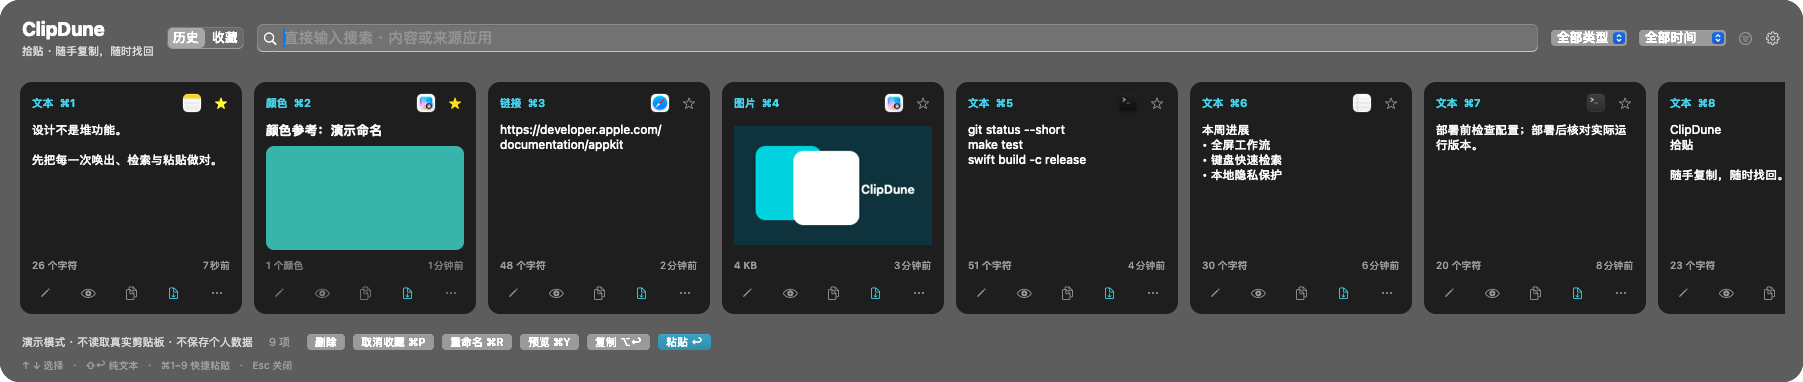
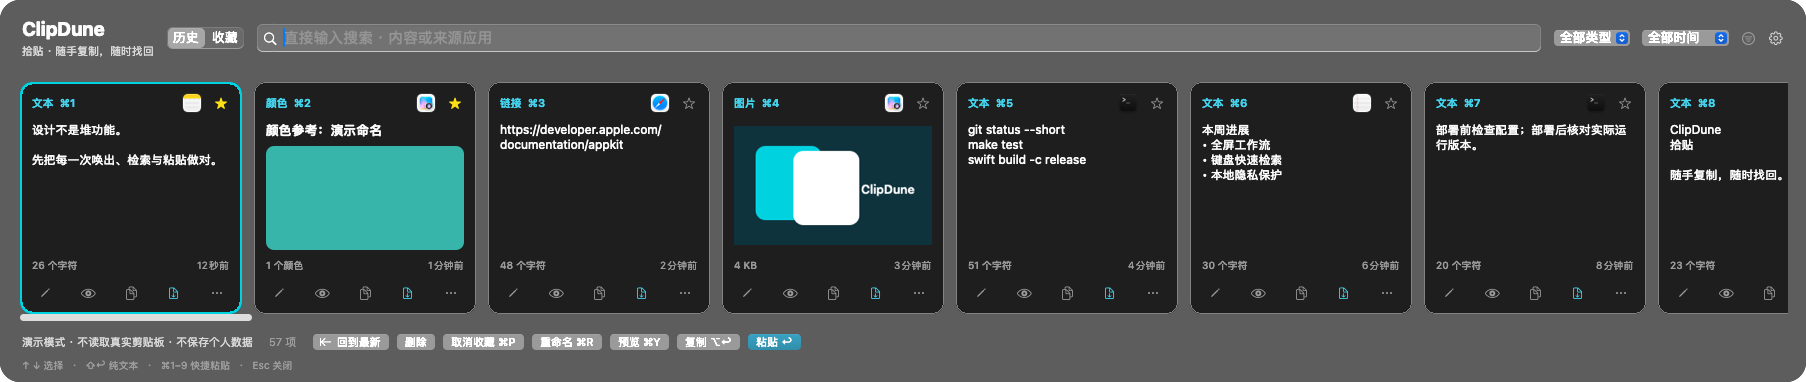
修复面板重开滚动复位并增加回到最新按钮

diff --git a/Sources/ClipDuneApp/ScrollUICheck.swift b/Sources/ClipDuneApp/ScrollUICheck.swift
@@ -1,0 +1,130 @@
+import AppKit
+import ClipDuneMac
+import ClipDuneCore
+
+@MainActor
+enum ScrollUICheck {
+    static func run(panel: ClipboardPanelController, open: () -> Void) async throws -> [String: Bool] {
+        guard let root = panel.panel.contentView,
+              let collection = descendants(root).compactMap({ $0 as? NSCollectionView }).first,
+              let scroll = collection.enclosingScrollView else { return ["scrollFixtureReady": false] }
+        panel.hide()
+        open()
+        try await Task.sleep(for: .milliseconds(150))
+        root.layoutSubtreeIfNeeded()
+        let clip = scroll.contentView
+        let maximumX = max(0, collection.bounds.width - clip.bounds.width)
+        var results = ["scrollFixtureReady": panel.summaries.count >= 40 && maximumX > 500]
+        guard results["scrollFixtureReady"] == true else { return results }
+
+        let index = IndexPath(item: 20, section: 0)
+        collection.selectionIndexPaths = [index]
+        panel.collectionView(collection, didSelectItemsAt: [index])
+        clip.scroll(to: NSPoint(x: maximumX / 2 + 63, y: clip.bounds.minY))
+        scroll.reflectScrolledClipView(clip)
+        results["scrolledAwayBeforeReopen"] = clip.bounds.minX > 100
+        panel.hide()
+        open()
+        results["reopenImmediatelyResetsScroll"] = atStart(scroll)
+        try await Task.sleep(for: .milliseconds(150))
+        results["reopenAfterResultsResetsScroll"] = atStart(scroll)
+        results["reopenSelectsNewest"] = collection.selectionIndexPaths == [IndexPath(item: 0, section: 0)]
+        results["reopenKeepsSearchFocused"] = panel.isSearchFocused
+
+        clip.scroll(to: NSPoint(x: 73, y: clip.bounds.minY))
+        scroll.reflectScrolledClipView(clip)
+        panel.hide()
+        open()
+        try await Task.sleep(for: .milliseconds(150))
+        results["partiallyVisibleFirstCardResetsCompletely"] = atStart(scroll)
+        guard let latest = descendants(root).compactMap({ $0 as? NSButton }).first(where: { $0.identifier?.rawValue == "clipdune.returnToLatest" }) else {
+            results["returnToLatestButtonPresent"] = false
+            return results
+        }
+        results["returnToLatestButtonPresent"] = !latest.isHidden && latest.isEnabled && latest.title == "回到最新"
+        let previousChoose = panel.onChoose
+        var pasteCalled = false
+        panel.onChoose = { _, _, _ in pasteCalled = true }
+        defer { panel.onChoose = previousChoose }
+        collection.selectionIndexPaths = [index]
+        panel.collectionView(collection, didSelectItemsAt: [index])
+        moveAway(scroll, collection: collection)
+        click(latest, in: panel.panel)
+        try await Task.sleep(for: .milliseconds(80))
+        results["latestButtonResetsScrollAndSelection"] = atStart(scroll) && collection.selectionIndexPaths == [IndexPath(item: 0, section: 0)]
+        results["latestButtonKeepsInputFocusWithoutPasting"] = panel.isSearchFocused && !pasteCalled
+        let firstFrame = collection.layoutAttributesForItem(at: IndexPath(item: 0, section: 0))?.frame
+        results["latestCardFullyVisible"] = firstFrame.map { collection.visibleRect.contains($0) } == true
+
+        if let type = descendants(root).compactMap({ $0 as? NSPopUpButton }).first(where: { $0.identifier?.rawValue == "clipdune.filter.type" }),
+           let period = descendants(root).compactMap({ $0 as? NSPopUpButton }).first(where: { $0.identifier?.rawValue == "clipdune.filter.time" }),
+           let favorites = descendants(root).compactMap({ $0 as? NSSegmentedControl }).first {
+            panel.searchField.stringValue = "横向滚动"
+            type.selectItem(withTitle: "文本")
+            period.selectItem(withTitle: "最近 30 天")
+            type.sendAction(type.action, to: type.target)
+            try await Task.sleep(for: .milliseconds(150))
+            let identities = panel.summaries.map(\.id)
+            results["filteredScrollFixtureReady"] = identities.count >= 40
+            moveAway(scroll, collection: collection)
+            click(latest, in: panel.panel)
+            try await Task.sleep(for: .milliseconds(80))
+            results["latestButtonPreservesQueryAndFilters"] = panel.query == "横向滚动" && panel.searchFilter == HistoryFilter(kind: .text, period: .lastThirtyDays) && panel.summaries.map(\.id) == identities && atStart(scroll)
+
+            favorites.selectedSegment = 1
+            favorites.sendAction(favorites.action, to: favorites.target)
+            try await Task.sleep(for: .milliseconds(150))
+            results["emptyResultsDisableLatestButton"] = panel.summaries.isEmpty && !latest.isEnabled && atStart(scroll)
+            panel.searchField.stringValue = ""
+            type.selectItem(at: 0)
+            period.selectItem(at: 0)
+            type.sendAction(type.action, to: type.target)
+            try await Task.sleep(for: .milliseconds(150))
+            click(latest, in: panel.panel)
+            try await Task.sleep(for: .milliseconds(80))
+            results["latestButtonPreservesFavorites"] = panel.pinnedOnly && !panel.summaries.isEmpty && panel.summaries.allSatisfy(\.isPinned) && atStart(scroll)
+
+            panel.hide()
+            open()
+            try await Task.sleep(for: .milliseconds(150))
+            results["reopenClearsFiltersAndReturnsToHistoryStart"] = !panel.pinnedOnly && panel.query.isEmpty && panel.searchFilter == HistoryFilter() && panel.summaries.count >= 40 && atStart(scroll)
+        } else { results["latestButtonPreservesQueryAndFilters"] = false }
+
+        var allCyclesPassed = true
+        for _ in 0..<6 {
+            moveAway(scroll, collection: collection)
+            panel.hide()
+            open()
+            allCyclesPassed = allCyclesPassed && atStart(scroll)
+            try await Task.sleep(for: .milliseconds(80))
+            allCyclesPassed = allCyclesPassed && atStart(scroll) && panel.isSearchFocused
+        }
+        results["repeatedScrolledReopensStayAtStart"] = allCyclesPassed
+        results["latestNavigationNeverPastes"] = !pasteCalled
+        return results
+    }
+
+    private static func atStart(_ scroll: NSScrollView) -> Bool {
+        abs(scroll.contentView.bounds.minX) <= 0.5
+    }
+
+    private static func descendants(_ view: NSView) -> [NSView] { view.subviews + view.subviews.flatMap(descendants) }
+
+    private static func moveAway(_ scroll: NSScrollView, collection: NSCollectionView) {
+        collection.layoutSubtreeIfNeeded()
+        let maximumX = max(0, collection.bounds.width - scroll.contentView.bounds.width)
+        scroll.contentView.scroll(to: NSPoint(x: maximumX / 2, y: scroll.contentView.bounds.minY))
+        scroll.reflectScrolledClipView(scroll.contentView)
+    }
+
+    private static func click(_ button: NSButton, in window: NSWindow) {
+        let point = button.convert(NSPoint(x: button.bounds.midX, y: button.bounds.midY), to: nil)
+        let timestamp = ProcessInfo.processInfo.systemUptime
+        let down = NSEvent.mouseEvent(with: .leftMouseDown, location: point, modifierFlags: [], timestamp: timestamp,
+                                     windowNumber: window.windowNumber, context: nil, eventNumber: 1, clickCount: 1, pressure: 1)!
+        let up = NSEvent.mouseEvent(with: .leftMouseUp, location: point, modifierFlags: [], timestamp: timestamp + 0.01,
+                                   windowNumber: window.windowNumber, context: nil, eventNumber: 1, clickCount: 1, pressure: 0)!
+        NSApp.postEvent(up, atStart: true)
+        window.sendEvent(down)
+    }
+}

diff --git a/Sources/ClipDuneMac/ClipboardPanel.swift b/Sources/ClipDuneMac/ClipboardPanel.swift
@@ -40,6 +40,7 @@ public final class ClipboardPanelController: NSObject, NSWindowDelegate, NSSearc
     private let typeFilter = NSPopUpButton()
     private let timeFilter = NSPopUpButton()
     private let clearFilters = NSButton()
+    private let latestButton = NSButton()
     private var pinButton: NSButton?
     private var sourceIcons: [String: NSImage] = [:]
     private let statusLabel = NSTextField(labelWithString: "仅保存在这台 Mac")
@@ -106,6 +107,8 @@ public final class ClipboardPanelController: NSObject, NSWindowDelegate, NSSearc
         let screen = NSScreen.screens.first(where: { $0.frame.contains(mouse) }) ?? NSScreen.main
         let available = screen?.visibleFrame ?? NSRect(x: 0, y: 0, width: 1_200, height: 800)
         panel.setFrame(Self.frame(on: available), display: true)
+        selectCurrent(scrollIntoView: false)
+        scrollToBeginning()
         panel.orderFrontRegardless()
         panel.makeKey()
         focusSearch()
@@ -146,7 +149,8 @@ public final class ClipboardPanelController: NSObject, NSWindowDelegate, NSSearc
         emptyLabel.stringValue = query.isEmpty && searchFilter == HistoryFilter() ? "你的下一次复制，会出现在这里。\n无需整理，随时找回。" : "没有找到匹配内容\n试试调整关键词、类型或时间筛选。"
         countLabel.stringValue = results.isEmpty ? "" : (results.count == 200 ? "最近 200 项 · 可继续搜索" : "\(results.count) 项")
         buttons.forEach { $0.isEnabled = !results.isEmpty }
-        selectCurrent()
+        selectCurrent(scrollIntoView: !resetSelection)
+        if resetSelection { scrollToBeginning() }
     }
 
     public func setStatus(_ status: String) { statusLabel.stringValue = status }
@@ -380,9 +384,18 @@ public final class ClipboardPanelController: NSObject, NSWindowDelegate, NSSearc
         let delete = NSButton(title: "删除", target: self, action: #selector(deleteSelection))
         let paste = NSButton(title: "粘贴 ↩", target: self, action: #selector(pasteSelection))
         paste.bezelColor = NSColor.systemTeal
-        buttons = [delete, pin, rename, preview, copy, paste]
+        latestButton.title = "回到最新"
+        latestButton.image = NSImage(systemSymbolName: "arrow.left.to.line", accessibilityDescription: "回到最新")
+        latestButton.imagePosition = .imageLeading
+        latestButton.target = self
+        latestButton.action = #selector(returnToLatest)
+        latestButton.identifier = NSUserInterfaceItemIdentifier("clipdune.returnToLatest")
+        latestButton.isEnabled = false
+        latestButton.toolTip = "回到当前结果最左侧并选中最新项，保留关键词与筛选条件"
+        latestButton.setAccessibilityLabel("回到最新")
+        buttons = [latestButton, delete, pin, rename, preview, copy, paste]
         buttons.forEach { $0.bezelStyle = .rounded; $0.controlSize = .small }
-        let actions = NSStackView(views: [delete, pin, rename, preview, copy, paste])
+        let actions = NSStackView(views: [latestButton, delete, pin, rename, preview, copy, paste])
         actions.spacing = 8
         let footer = NSStackView(views: [statusLabel, countLabel, actions])
         footer.spacing = 16
@@ -465,12 +478,27 @@ public final class ClipboardPanelController: NSObject, NSWindowDelegate, NSSearc
         selectCurrent()
     }
 
-    private func selectCurrent() {
+    private func selectCurrent(scrollIntoView: Bool = true) {
         updateSelectionActions()
         guard summaries.indices.contains(selectedIndex) else { return }
         let selection: Set<IndexPath> = [IndexPath(item: selectedIndex, section: 0)]
         collection.selectionIndexPaths = selection
-        collection.scrollToItems(at: selection, scrollPosition: .nearestHorizontalEdge)
+        if scrollIntoView { collection.scrollToItems(at: selection, scrollPosition: .nearestHorizontalEdge) }
+    }
+
+    private func scrollToBeginning() {
+        panel.contentView?.layoutSubtreeIfNeeded()
+        collection.layoutSubtreeIfNeeded()
+        let clip = scrollView.contentView
+        clip.scroll(to: NSPoint(x: 0, y: clip.bounds.minY))
+        scrollView.reflectScrolledClipView(clip)
+    }
+
+    @objc private func returnToLatest() {
+        selectedIndex = 0
+        selectCurrent(scrollIntoView: false)
+        scrollToBeginning()
+        focusSearch()
     }
 
     private func updateSelectionActions() {

diff --git a/Sources/ClipDuneApp/AppDelegate.swift b/Sources/ClipDuneApp/AppDelegate.swift
@@ -629,6 +629,14 @@ final class AppDelegate: NSObject, NSApplicationDelegate {
         ])], text: "产品发布检查\n签名、下载、启动与回滚分别验证。", kind: .html, sourceName: "Safari", sourceBundleID: "com.apple.Safari")
         let yesterday = Calendar.current.date(byAdding: .day, value: -1, to: Date())!
         try await store?.record(html, at: yesterday)
+        if qaDirectory != nil {
+            for index in 1...48 {
+                let text = "横向滚动测试记录 \(index)"
+                let entry = ClipboardContent(fragments: [.init(representations: [.init(type: "public.utf8-plain-text", data: Data(text.utf8))])],
+                                             text: text, kind: .text, sourceName: "测试宿主", sourceBundleID: "app.clipdune.fixture")
+                try await store?.record(entry, at: Date().addingTimeInterval(-Double(3_600 + index)))
+            }
+        }
         if let bitmap = NSBitmapImageRep(bitmapDataPlanes: nil, pixelsWide: 240, pixelsHigh: 144, bitsPerSample: 8,
                                          samplesPerPixel: 4, hasAlpha: true, isPlanar: false,
                                          colorSpaceName: .deviceRGB, bytesPerRow: 0, bitsPerPixel: 0),

diff --git a/Sources/ClipDuneApp/UICheck.swift b/Sources/ClipDuneApp/UICheck.swift
@@ -74,6 +74,8 @@ enum UICheck {
                 }
                 let cardResults = try await CardUICheck.run(panel: panel, directory: directory)
                 for (name, passed) in cardResults { results[name] = passed }
+                let scrollResults = try await ScrollUICheck.run(panel: panel, open: open)
+                for (name, passed) in scrollResults { results[name] = passed }
                 if let view = panel.panel.contentView, let bitmap = view.bitmapImageRepForCachingDisplay(in: view.bounds) {
                     view.cacheDisplay(in: view.bounds, to: bitmap)
                     if let image = bitmap.representation(using: .png, properties: [:]) {

diff --git a/README.md b/README.md
@@ -2,9 +2,9 @@
 
 随手复制，随时找回。一个独立实现、以键盘工作流为先的 macOS 剪贴板工具。
 
-当前为 **0.3.0 开发预览版**。自用优先，未来是否付费发行另行决定；尚未公证、未提交 Mac App Store，不应当作正式发行包。
+当前为 **0.3.1 开发预览版**。自用优先，未来是否付费发行另行决定；尚未公证、未提交 Mac App Store，不应当作正式发行包。
 
-本机验证结果：0.3.0 的 **Release 应用包**已通过普通／原生全屏面板和设置窗口检查，包含卡片鼠标操作、重命名、组合筛选与加宽布局。升级安装事务、签名与下载另有测试；真实终端授权后的直接插入、系统升级兼容性和公证仍需分别验收。详见 `docs/verification.md`。
+本机验证结果与版本边界见 `docs/verification.md`。Release 应用包的普通／原生全屏交互与设置窗口有隔离检查；真实终端授权后的直接插入、完整升级后重启与公证仍需分别验收。
 
 ![ClipDune 合成演示内容预览](docs/images/preview.png)
 
@@ -27,6 +27,7 @@ make release    # 优化构建，不代表正式发行或公证
 ## 当前能力
 
 - 底部原生卡片面板，跟随显示器可见宽度，左右只留 16 pt；打开后直接输入搜索，无需先点击输入框。
+- 每次重新打开恢复默认历史，并滚回最左端的最新项；底部“回到最新”按钮可在浏览中一键返回当前结果开头，保留搜索与筛选。
 - 点击卡片让搜索框失焦后，继续打字也会自动聚焦并搜索；双击正文、图片或卡片空白位置均可执行粘贴。
 - 原生全屏空间与普通窗口使用同一唤出／焦点路径，具体已验证范围见 `docs/verification.md`。
 - 区分文本、富文本、HTML、图片、链接、文件、颜色和其他数据；保留已捕获的原始表示，不将所有内容降成纯文本。
@@ -51,6 +52,7 @@ make release    # 优化构建，不代表正式发行或公证
 | 快捷粘贴 | `⌘1`–`⌘9` |
 | 收藏／预览 | `⌘P` / `⌘Y` |
 | 重命名 | `⌘R` 或卡片铅笔按钮，历史与收藏共享名称 |
+| 回到最新 | 点击底部“回到最新”，保留当前关键词、类型、时间与收藏条件 |
 | 设置 | `⌘,` 或面板右上角齿轮 |
 | 关闭 | `Esc`；输入法正在组词时优先交给输入法 |
 
@@ -93,6 +95,6 @@ docs/                   设计、验证范围与问题复盘
 
 尚未实现：自定义收藏分组、OCR、顺序粘贴、云同步、AI、Windows、付费购买、App Sandbox 发行配置、签名公证与商店审核。先验证日常全屏与输入体验，再根据实际反馈扩展。
 
-0.1.0 没有更新器，首次需要手动安装当前版本；0.2.0 可直接检查 0.3.0 更新。在“设置 → 关于与更新”配置自己的仓库只读令牌。自动检查不代表自动安装，下载和安装均由用户确认。
+0.1.0 没有更新器，首次需要手动安装当前版本；0.2.0 及之后版本可直接检查新版更新。在“设置 → 关于与更新”配置自己的仓库只读令牌。自动检查不代表自动安装，下载和安装均由用户确认。
 
 产品研究参考 Paste 与 Clipbara 的公开功能和交互；本工程没有复制 Clipbara 源码、资产或 Git 历史，也没有依赖其包。前期研究曾阅读其实现，不声称经过法律意义上的洁净室流程。名称只做了初步公开检索，尚未完成商标审查。

diff --git a/docs/issues/2026-10-22-重新打开面板滚动复位.md b/docs/issues/2026-10-22-重新打开面板滚动复位.md
@@ -1,0 +1,48 @@
+# 重新打开面板没有回到最新项
+
+- 发现日期：2026-10-22。
+- 影响版本：0.3.0 及此前同一面板定位逻辑。
+- 严重程度：P2，影响高频历史查找，未发现数据丢失。
+- 修复版本：0.3.1；修复 commit 可通过 `git log --all --grep='修复面板重开滚动复位并增加回到最新按钮'` 定位。
+
+## 现象与复现
+
+横向滚到旧记录后关闭面板，再次打开仍然停留在旧滚动位置。即使第一项被标记选中，第一张卡片也可能只露出一部分。
+
+使用独立测试宿主、临时数据库和 48 条额外合成历史构造必定可横向滚动的内容。将选中项放到第 21 项，滚动到中部偏移后关闭再打开，同时观测打开返回时和异步数据返回后的 NSClipView 横向坐标。
+
+```text
+bash scripts/check-ui.sh development
+scrolledAwayBeforeReopen = true
+reopenSelectsNewest = true
+reopenImmediatelyResetsScroll = false
+reopenAfterResultsResetsScroll = false
+partiallyVisibleFirstCardResetsCompletely = false
+status = failed
+```
+
+## 定位与根因
+
+优先检查了三条路径：显示时只恢复选中项、列表 reload 布局时序、异步查询覆盖定位。
+
+`show()` 只将 `selectedIndex` 设置为 0，没有明确重置 NSClipView 的横向滚动坐标；查询完成时 `update()` 通过通用 `selectCurrent()` 调用 `scrollToItems(... .nearestHorizontalEdge)`，未在重置场景明确完成布局并将滚动容器移到起点。上述复现同时证明“第一项选中”为真与“滚动复位”为假可以并存。
+
+## 修复
+
+1. 拆开选中项同步和滚动定位。普通选择仍使用原来的临近边缘滚动，不改变浏览行为。
+2. 打开前同步第一项选择，完成面板和集合布局，将 NSClipView 的横向坐标设为 0，再显示面板。
+3. `resetSelection` 的查询结果更新完成后，同样执行明确的左端定位，覆盖异步加载的情况。
+4. 新增“回到最新”按钮，复用同一定位方法，选中当前结果第一项并恢复搜索输入；保留现有筛选，不触发复制或粘贴。
+5. 空结果禁用按钮，不添加无界延迟、强制激活其他窗口或延迟抢焦点。
+
+## 回归与验收边界
+
+- 普通与原生全屏分别验证：中部偏移后重开、首项部分可见后重开、6 次带滚动反复重开、打开当下和查询完成后都位于左端。
+- 通过真实窗口鼠标按下／抬起事件点击按钮，等待事件处理完成后验证横向坐标、第一项选中和搜索焦点；不直接调用产品的返回方法作为点击证明。
+- 验证关键词／类型／时间／收藏保留、空结果禁用、第一卡片完全可见、所有导航路径不执行粘贴。
+- 原有卡片动作、重命名、搜索、输入法、全屏与焦点恢复回归一并运行。
+- 不读取用户真实剪贴板或历史，不把这些 UI 检查当作实际终端插入或自动升级重启的整链路验证。
+
+## 避免再犯
+
+以后列表复位的验收必须检查滚动容器坐标和首项完整可见，不能只检查选中 ID／索引。异步刷新前后都应有断言，普通浏览定位和“回到起点”应使用各自明确的行为。

diff --git a/docs/verification.md b/docs/verification.md
@@ -4,6 +4,15 @@
 
 ## 已执行
 
+### 0.3.1
+
+- `bash scripts/check.sh`：46 个核心场景、205 个断言通过，应用和更新辅助程序 Release 构建通过。
+- `CLIPDUNE_UI_CONFIGURATION=release bash scripts/check-ui.sh bundle`：实际 Release 应用包普通／全屏各 52 项布尔检查通过，五个设置页面检查继续通过。
+- 新增滚动用例先在修复前观察到失败：第一项已经选中，但打开当下、查询返回后和首项部分可见情况下的滚动坐标均未复位。修复后以上三项通过。
+- “回到最新”的窗口鼠标点击、第一项完整可见、选中项与输入焦点、筛选／关键词／收藏保留、空结果禁用、6 次带滚动反复重开与不触发粘贴均通过。
+- 结果保存于 `qa/2026-10-22-v0.3.1-windowed-bundle.json`、`qa/2026-10-22-v0.3.1-fullscreen-bundle.json` 和 `qa/2026-10-22-v0.3.1-settings.json`。预览图只包含合成记录。
+- 新增的 48 条滚动夹具仅在隔离 QA 模式生成，不读取或写入用户正常历史。数据 schema、公钥与更新协议均未改变。
+
 ### 0.3.0
 
 - `swift run ClipDuneChecks`：46 个场景、205 个断言通过。新增名称检索、收藏与去重保留名称、归档往返、旧主表写入兼容、类型独立筛选、时区／夏令时、8 类数据保真和大小口径检查。

diff --git a/docs/releases/0.3.1.md b/docs/releases/0.3.1.md
@@ -1,0 +1,9 @@
+# ClipDune 0.3.1
+
+- 修复横向滚动后重新打开面板仍停在旧位置的问题：每次打开都会回到默认历史最左端，选中最新项。
+- 数据异步返回后再次确保滚动复位，不再把“选中了第一条”误当作“已经滚回最左边”。
+- 底部新增“回到最新”按钮，一次点击即可回到当前结果最左端并选中第一条，搜索框继续可输入。
+- 快速返回保留当前关键词、类型、时间和历史／收藏条件，不执行复制或粘贴；没有结果时按钮禁用。
+- 保留普通浏览时的选中项定位和原有键盘操作。数据格式、存储路径与更新签名公钥不变。
+
+开发预览版。新增回归覆盖滚动后的反复开关、第一张卡片部分可见、按钮鼠标点击、筛选／收藏保留以及空结果；在普通窗口和原生全屏分别验证。应用未作 Developer ID 公证，真实终端插入与完整升级后重启仍需独立验收。

diff --git a/docs/content-and-search.md b/docs/content-and-search.md
@@ -1,6 +1,6 @@
 # 卡片操作、内容类型与搜索
 
-适用版本：0.3.0，2026-10-22。
+适用版本：0.3.1，2026-10-22。
 
 ## 不依赖快捷键的操作
 
@@ -9,6 +9,8 @@
 右键卡片或点击更多可执行同一组操作，并提供单次格式切换和删除。删除与常用按钮分开，避免紧凑布局下误触。所有回调按内容 ID 重新查找条目，不能把当前点击的按钮应用到旧选中项。
 
 双击正文仍按原有逻辑直接粘贴；按钮点击被排除在正文双击命中范围之外。重复双击按钮不会额外触发正文粘贴。
+
+每次重新唤出面板都会清空搜索与筛选、回到默认历史最左端并选中最新项。浏览过程中可点击底部“回到最新”按钮：只返回**当前结果**最左端并选择第一项，保留关键词、类型、时间及历史／收藏状态，不复制或粘贴内容。返回后仍可直接输入搜索；空结果时按钮禁用。
 
 ## 来源与大小
 

diff --git a/docs/design.md b/docs/design.md
@@ -20,6 +20,7 @@
 - 退出：Esc、切换空间或点击其他应用收起。退出不主动激活另一个 Space，也不在未确认焦点的情况下发送粘贴。
 - 目标：唤出时记录原应用和可访问性输入元素；粘贴前再次比较。不匹配就只写剪贴板，提示用户手动粘贴。
 - 查询：异步检索结果有代次检查，较早的查询不能覆盖较新的查询。
+- 滚动：选中项同步不等于滚动复位。面板每次打开和重置查询结果时，在布局完成后明确回到横向起点；“回到最新”按钮复用此行为但保留当前查询条件。
 
 ## Module 划分
 
